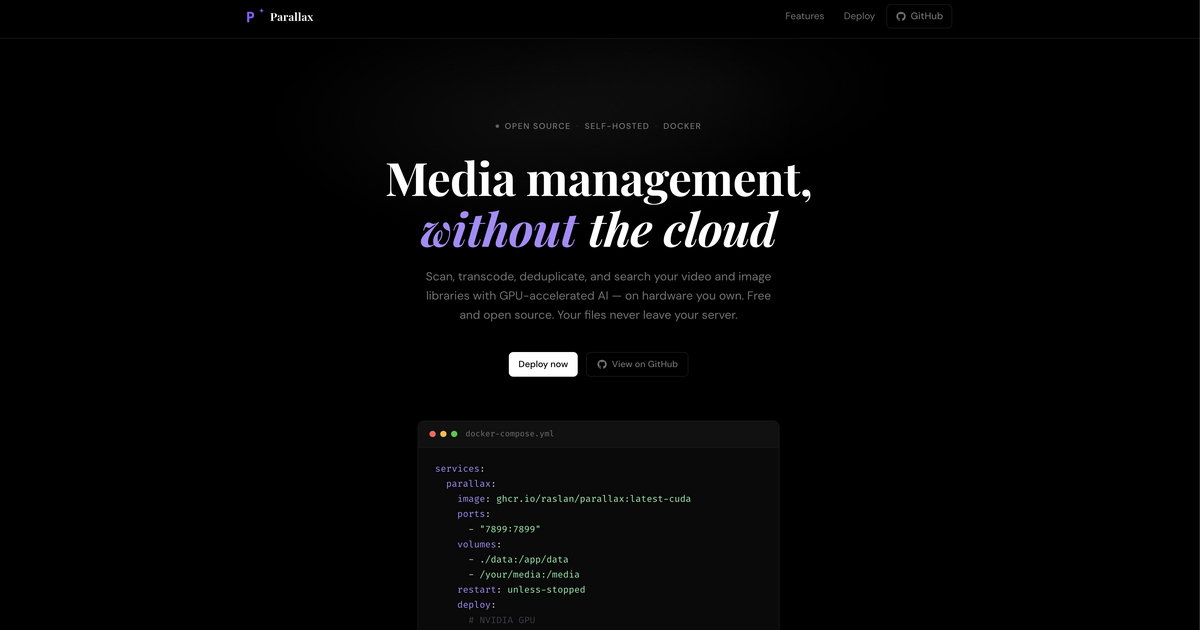
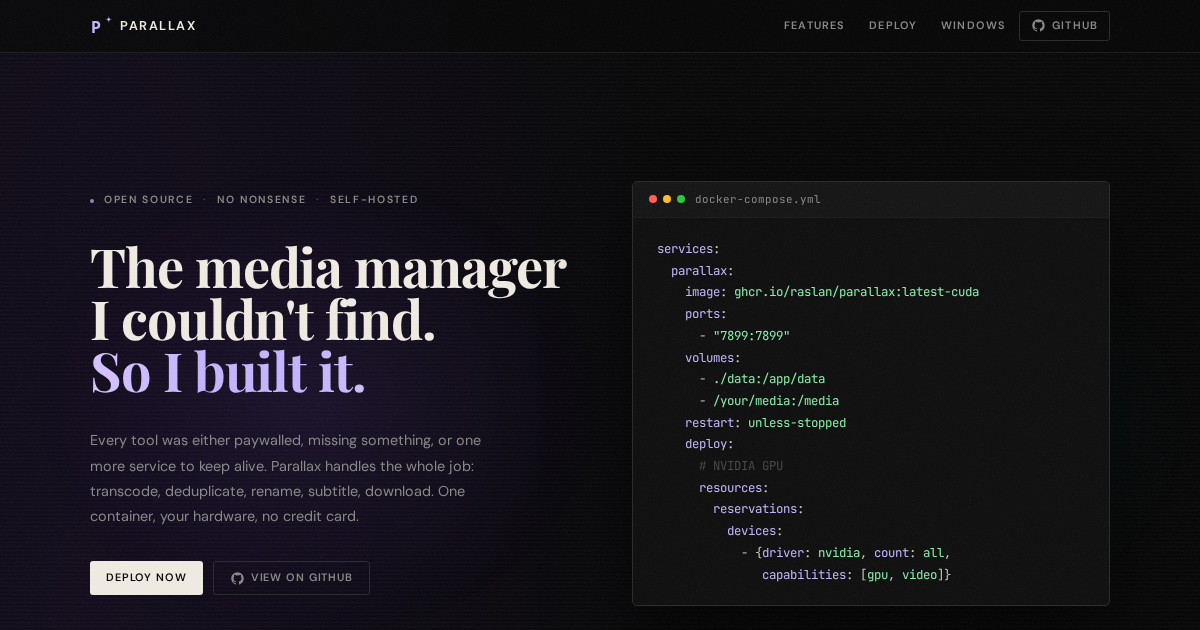
chore(landing): add screenshot-og.js for og-image generation
- Playwright script screenshots dist/index.html at 1200x630
- Writes to repo root og-image.png (committed, copied to dist/ by build)
- Root package.json/lock gitignored to avoid release-please and Vercel conflicts
- Run: node scripts/build-landing.js && node scripts/screenshot-og.js

diff --git a/scripts/screenshot-og.js b/scripts/screenshot-og.js
@@ -1,0 +1,32 @@
+#!/usr/bin/env node
+// Takes a 1200x630 screenshot of dist/index.html and saves it as og-image.png
+// Run after build-landing.js: node scripts/build-landing.js && node scripts/screenshot-og.js
+
+const { chromium } = require("playwright");
+const path = require("path");
+const fs = require("fs");
+
+const distDir = path.join(__dirname, "../dist");
+const htmlPath = path.join(distDir, "index.html");
+const outPath = path.join(__dirname, "../og-image.png"); // repo root — committed and copied to dist/ by build-landing.js
+
+if (!fs.existsSync(htmlPath)) {
+  console.error("dist/index.html not found — run build-landing.js first");
+  process.exit(1);
+}
+
+(async () => {
+  const browser = await chromium.launch();
+  const page = await browser.newPage();
+
+  await page.setViewportSize({ width: 1200, height: 630 });
+  await page.goto(`file://${htmlPath}`);
+
+  // wait for fonts and entrance animations to settle
+  await page.waitForTimeout(1800);
+
+  await page.screenshot({ path: outPath });
+  await browser.close();
+
+  console.log(`og-image.png written to ${outPath}`);
+})();